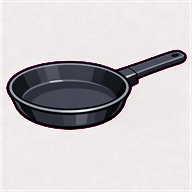
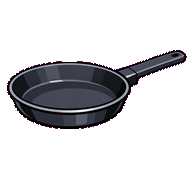
feat: 심연낚시 어종 30종 + 폭탄 몸통·팬·머리 무크롭/투명화 + 종겜 배경화면 (푸시 금지)
어종 30종 (사용자 요청 — 거북·개복치·상어·고래·돌고래·불가사리·소라·조개·아귀·
심해어·오징어 등): 티어 0~4 × 6종, 전부 AetherAI 생성. 잘림 재발 방지로
최적화기에 Contain(무크롭) 모드 신설 + 프롬프트에 전신 조항. 낚시 게임은
이름·스프라이트 쌍(SPECIES) 체제로 개편 — 이름은 사실 슬롯으로 채팅에 흘러간다.
구판 fish-0..4 제거. 생성 배경이 마젠타를 무시한 12종은 테두리 연결 플러드필
키잉(3단 패스: 코너·저알파·테두리 링 샘플)으로 투명화.

폭탄 몸통: 양쪽 잘림 — Contain + 무크롭 조항으로 재생성 (+가장자리 디스필).
화력쇼 팬·GUOI 머리: 잔재 배경 플러드필 투명화 (전 스프라이트 코너 스캔으로 발견).

배경화면: 종겜 스트리머 방으로 재생성 — 5개 게임 소품(팬·곡괭이·낚싯대·괴수
인형·니퍼) 실루엣 선반 + 트리플 모니터 + 민트 네온, 16:9(1600x900).
'중간마다 선' 원인 2중 제거: 구판 그림의 밴드 광선(프롬프트 금지·재생성) +
body 세로 그라데이션 베일의 8비트 밴딩(평면 베일로 교체).

selftest PASS 79, 배포 파일 101종 존재, payload 2,332KB (예산 2,700 — 어종
30종 지연 로드, 첫 화면 불변). 실측: 고래 릴 파이트 렌더·허브 배경 무줄무늬.

diff --git a/games/fishing/game.js b/games/fishing/game.js
@@ -31,12 +31,19 @@
     { n: '심해',   top: 310, bot: 420, bite: [7, 12], drain: 0.007, tiers: [.05, .10, .30, .45, .10] },
   ];
   // 어종 티어 — reel: 초당 끌어올림, surgeP: 저항 시 텐션 상승/초, pull: 저항 시 되끌림/초
+  // 어종 — 티어당 6종 (스프라이트 AetherAI, tools/aether-assets.json의 sp-*).
+  // 이름·스프라이트 쌍은 사실 슬롯(name)으로 채팅에 그대로 흘러간다.
   var TIERS = [
-    { n: '잡어', names: ['잿빛피라미', '흙탕주둥이', '거품송사리'], gain: [15, 30],     reel: 80, surgeP: 0,   surgeIv: 99,  pull: 0,  r: 9,  c: '#8a8478' },
-    { n: '소형', names: ['은비늘잉어', '달빛정어리', '유리멸치'],   gain: [60, 60],     reel: 52, surgeP: 35,  surgeIv: 2.2, pull: 8,  r: 13, c: '#9ec8e0' },
-    { n: '중형', names: ['먹구름메기', '청동가물치', '칼지느러미'], gain: [200, 200],   reel: 36, surgeP: 55,  surgeIv: 1.7, pull: 14, r: 19, c: '#6fa0c0' },
-    { n: '대형', names: ['심해왕눈이', '가시등롱어', '강철아가미'], gain: [650, 650],   reel: 25, surgeP: 85,  surgeIv: 1.3, pull: 22, r: 28, c: '#c08a4a' },
-    { n: '전설', names: ['나락의군주', '심연의어미'],               gain: [1800, 1800], reel: 17, surgeP: 110, surgeIv: 1.0, pull: 30, r: 40, c: '#ff6a3d' },
+    { n: '잡어', sp: [{ n: '잿빛피라미', img: 'sp-minnow' }, { n: '거품송사리', img: 'sp-guppy' }, { n: '진주조개', img: 'sp-clam' }, { n: '뿔소라', img: 'sp-conch' }, { n: '별불가사리', img: 'sp-starfish' }, { n: '유리새우', img: 'sp-shrimp' }],
+      gain: [15, 30],     reel: 80, surgeP: 0,   surgeIv: 99,  pull: 0,  r: 9,  c: '#8a8478' },
+    { n: '소형', sp: [{ n: '은비늘잉어', img: 'sp-carp' }, { n: '달빛정어리', img: 'sp-sardine' }, { n: '유리멸치', img: 'sp-anchovy' }, { n: '흰꼬마오징어', img: 'sp-squid' }, { n: '방울해파리', img: 'sp-jelly' }, { n: '아기바다거북', img: 'sp-babyturtle' }],
+      gain: [60, 60],     reel: 52, surgeP: 35,  surgeIv: 2.2, pull: 8,  r: 13, c: '#9ec8e0' },
+    { n: '중형', sp: [{ n: '먹구름메기', img: 'sp-catfish' }, { n: '청동가물치', img: 'sp-snakehead' }, { n: '칼지느러미', img: 'sp-sailfin' }, { n: '웃는돌고래', img: 'sp-dolphin' }, { n: '멍한개복치', img: 'sp-sunfish' }, { n: '이끼바다거북', img: 'sp-seaturtle' }],
+      gain: [200, 200],   reel: 36, surgeP: 55,  surgeIv: 1.7, pull: 14, r: 19, c: '#6fa0c0' },
+    { n: '대형', sp: [{ n: '심해왕눈이', img: 'sp-bigeye' }, { n: '가시등롱어', img: 'sp-lantern' }, { n: '강철아가미', img: 'sp-steelgill' }, { n: '잿빛상어', img: 'sp-shark' }, { n: '대왕오징어', img: 'sp-giantsquid' }, { n: '못난이아귀', img: 'sp-monkfish' }],
+      gain: [650, 650],   reel: 25, surgeP: 85,  surgeIv: 1.3, pull: 22, r: 28, c: '#c08a4a' },
+    { n: '전설', sp: [{ n: '나락의군주', img: 'sp-abysslord' }, { n: '심연의어미', img: 'sp-abyssmother' }, { n: '흰수염고래', img: 'sp-whale' }, { n: '옛바다의그림자', img: 'sp-leviathan' }, { n: '유령해파리', img: 'sp-ghostjelly' }, { n: '황금개복치', img: 'sp-goldsunfish' }],
+      gain: [1800, 1800], reel: 17, surgeP: 110, surgeIv: 1.0, pull: 30, r: 40, c: '#ff6a3d' },
   ];
   var SNAP_AT = 100, EDGE_AT = 90;   // 줄 끊김 / 클러치 임계 (텐션 %)
   var SNAP_GAIN = [400, 900];        // 대형·전설 줄 끊김 구경값
@@ -59,10 +66,10 @@
   var IMG = {};
   function loadArt() {
     if (IMG['sea-bg']) return;
-    [['sea-bg', 'jpg'], ['boat', 'png'],
-     ['fish-0', 'png'], ['fish-1', 'png'], ['fish-2', 'png'], ['fish-3', 'png'], ['fish-4', 'png'],
-     ['vfx-splash', 'jpg'],
-    ].forEach(function (e) {
+    var arts = [['sea-bg', 'jpg'], ['boat', 'png'], ['vfx-splash', 'jpg']];
+    // 어종 30 스프라이트 — 티어 정의에서 수집 (지연 로드라 첫 화면 payload 무관)
+    TIERS.forEach(function (t) { t.sp.forEach(function (o) { arts.push([o.img, 'png']); }); });
+    arts.forEach(function (e) {
       var im = new Image();
       im.src = 'games/fishing/img/' + e[0] + '.' + e[1];
       IMG[e[0]] = im;
@@ -181,7 +188,8 @@
       var roll = Math.random(), acc = 0, tier = 0, tp = zone().tiers;
       for (var i = 0; i < tp.length; i++) { acc += tp[i]; if (roll < acc) { tier = i; break; } }
       var T = TIERS[tier];
-      st.fish = { tier: tier, name: T.names[rnd(0, T.names.length - 1)], prog: 0 };
+      var sp = T.sp[rnd(0, T.sp.length - 1)];
+      st.fish = { tier: tier, name: sp.n, img: sp.img, prog: 0 };
       st.phase = 'reel'; st.biteT = 0;
       st.tension = 35; st.slackT = 0; st.edgeT = 0; st.edgeDone = false;
       st.surging = 0; st.surgeT = .8 + Math.random();
@@ -496,9 +504,9 @@
             var F = TIERS[st.fish.tier], fr = F.r;
             ctx.save(); ctx.translate(lx, ly + fr * .6);
             ctx.rotate(Math.sin(t * (st.surging > 0 ? 22 : 6)) * (st.surging > 0 ? .5 : .18));
-            if (imgReady('fish-' + st.fish.tier)) {
+            if (st.fish.img && imgReady(st.fish.img)) {
               // 스프라이트도 벡터처럼 왼쪽을 본다 — 회전(몸부림)은 그대로 태운다
-              var fim = IMG['fish-' + st.fish.tier], fw2 = fr * 3.8, fh2 = fw2 * fim.naturalHeight / fim.naturalWidth;
+              var fim = IMG[st.fish.img], fw2 = fr * 3.8, fh2 = fw2 * fim.naturalHeight / fim.naturalWidth;
               ctx.drawImage(fim, -fw2 / 2, -fh2 / 2, fw2, fh2);
             } else {
               ctx.fillStyle = F.c;

diff --git a/games/shell/selftest.html b/games/shell/selftest.html
@@ -332,7 +332,7 @@ FACES = FACES.concat(['img/comic-1.jpg', 'img/comic-2.jpg', 'img/comic-3.jpg', '
   'img/ui-lock.png', 'img/ui-wrench.png', 'img/ui-star.png', '../giving-up/img/head.png']);
 // 심연낚시·해체쇼 아트 (AetherAI — "게임 내 이미지 전부 AetherAI" 방침의 마지막 두 게임)
 FACES = FACES.concat(
-  ['boat', 'fish-0', 'fish-1', 'fish-2', 'fish-3', 'fish-4']
+  ['boat'].concat(['sp-minnow', 'sp-guppy', 'sp-clam', 'sp-conch', 'sp-starfish', 'sp-shrimp', 'sp-carp', 'sp-sardine', 'sp-anchovy', 'sp-squid', 'sp-jelly', 'sp-babyturtle', 'sp-catfish', 'sp-snakehead', 'sp-sailfin', 'sp-dolphin', 'sp-sunfish', 'sp-seaturtle', 'sp-bigeye', 'sp-lantern', 'sp-steelgill', 'sp-shark', 'sp-giantsquid', 'sp-monkfish', 'sp-abysslord', 'sp-abyssmother', 'sp-whale', 'sp-leviathan', 'sp-ghostjelly', 'sp-goldsunfish'])
     .map(function (n) { return '../fishing/img/' + n + '.png'; }),
   ['../fishing/img/sea-bg.jpg', '../fishing/img/vfx-splash.jpg',
    '../bomb/img/bench-bg.jpg', '../bomb/img/bomb-body.png', '../bomb/img/vfx-boom.jpg']);
@@ -349,7 +349,9 @@ FACES = FACES.concat(
 //   첫 화면(~150KB)은 불변 — 이 예산은 총량 상한(회선 부담 가드)이다.
 // → 2200 → 2300 (2026-08-09): 전체화면 방송 + 클립 채팅 합성 코드(약 6KB)로 상한 터치.
 //   이번 인상분은 이미지가 아니라 코드다 — 에셋 총량은 동결 상태.
-var BUDGET_KB = 2300;
+// → 2300 → 2700 (2026-08-09): 심연낚시 어종 30종(사용자 요청 — 거북·개복치·상어·고래 등).
+//   전부 방송 준비 때 지연 로드 — 첫 화면 불변. 이미지 인상분 약 350KB.
+var BUDGET_KB = 2700;
 Promise.all([
   Promise.all(SHIPPED.map(function (u) {
     return fetch(u, { cache: 'no-store' }).then(function (r) { return r.ok ? r.text() : null; }).catch(function () { return null; });

diff --git a/games/shell/shell.css b/games/shell/shell.css
@@ -586,8 +586,9 @@ body.g-tallyplat #tally.off { background: #3a332a; color: #9a9184; }
    허브에서는 창이 최소화되어 바탕화면 아이콘이 그대로 보인다 — 방송 전의 스트리머는
    데스크탑에 있다는 감각이 이 레이아웃의 전부다. */
 body {
+  /* 베일은 평면색으로 — 어두운 세로 그라데이션은 8비트 밴딩(가로줄)을 만든다 (실측) */
   background:
-    linear-gradient(rgba(8,6,12,.35), rgba(8,6,12,.55)),
+    linear-gradient(rgba(8,6,12,.45), rgba(8,6,12,.45)),
     url('img/desktop-wallpaper.jpg') center/cover fixed no-repeat,
     #141517;
   padding-bottom: 56px;               /* 작업표시줄 자리 */
